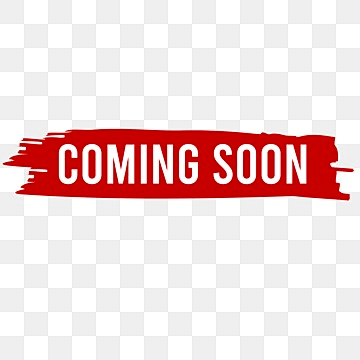
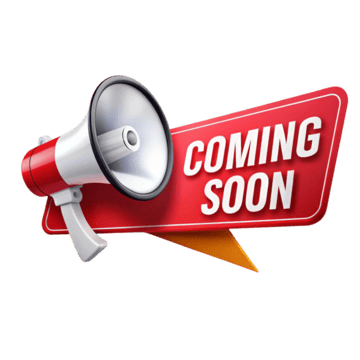
feat(projects): coming-soon badge image, remove empty slide overlay
comingSoon slides now show the coming_soon_icon.png brush-stroke badge
bottom-centered instead of a gradient text pill over a black bar. The
empty Overlay (solid black div with no content) no longer renders for
the comingSoon variant, and its dead $comingSoon prop is removed.
Test queries the badge by alt text.

Generated with [Devin](https://devin.ai)

Changed region(s): [[0.0, 0.1833, 0.9778, 0.7639]]

diff --git a/src/features/portfolio/Projects/CarouselSlide/index.js b/src/features/portfolio/Projects/CarouselSlide/index.js
@@ -41,18 +41,17 @@ const CarouselSlide = ({ project, isActive, position, onClick, onExpand }) => {
         height={PROJECT_IMAGE_HEIGHT}
         loading="lazy"
       />
-      <Overlay
-        $comingSoon={project.variant === "comingSoon"}
-        initial={false}
-        animate={{
-          y: isActive ? 0 : "100%",
-        }}
-        transition={{
-          duration: 0.35,
-          ease: [0.4, 0, 0.2, 1],
-        }}
-      >
-        {project.variant !== "comingSoon" && (
+      {project.variant !== "comingSoon" && (
+        <Overlay
+          initial={false}
+          animate={{
+            y: isActive ? 0 : "100%",
+          }}
+          transition={{
+            duration: 0.35,
+            ease: [0.4, 0, 0.2, 1],
+          }}
+        >
           <BottomBar>
             <BottomRow>
               {project.technologies?.length > 0 && (
@@ -92,10 +91,13 @@ const CarouselSlide = ({ project, isActive, position, onClick, onExpand }) => {
               </CTAContainer>
             </BottomRow>
           </BottomBar>
-        )}
-      </Overlay>
+        </Overlay>
+      )}
       {project.variant === "comingSoon" && (
-        <ComingSoonBadge>Coming Soon</ComingSoonBadge>
+        <ComingSoonBadge
+          src={`${process.env.PUBLIC_URL}/coming_soon_icon.png`}
+          alt="Coming Soon"
+        />
       )}
     </Slide>
   );

diff --git a/src/features/portfolio/Projects/CarouselSlide/styled.js b/src/features/portfolio/Projects/CarouselSlide/styled.js
@@ -69,10 +69,7 @@ export const Overlay = styled(motion.div)`
   right: 0;
   display: flex;
   align-items: flex-end;
-  background: ${({ $comingSoon }) =>
-    $comingSoon
-      ? "var(--color-black)"
-      : "linear-gradient(180deg, transparent 0%, var(--color-surface) 40%)"};
+  background: linear-gradient(180deg, transparent 0%, var(--color-surface) 40%);
 
   @media (max-width: ${({ theme }) => theme.breakpoint.md}) {
     padding: 0 var(--spacing-sm) var(--spacing-sm);
@@ -180,22 +177,12 @@ export const CTAButton = styled(Button)`
   }
 `;
 
-export const ComingSoonBadge = styled.span`
+export const ComingSoonBadge = styled.img`
   position: absolute;
-  top: var(--spacing-md);
-  right: var(--spacing-md);
-  padding: var(--spacing-xs) var(--spacing-sm);
-  font-size: 0.75rem;
-  font-weight: 700;
-  color: var(--color-white);
-  text-transform: uppercase;
-  letter-spacing: 0.05em;
-  background: linear-gradient(
-    135deg,
-    var(--color-primary),
-    var(--color-accent)
-  );
-  border-radius: var(--radius-md);
-  box-shadow: var(--shadow-md);
+  bottom: -34px;
+  left: 50%;
+  transform: translateX(-50%);
+  width: 150px;
   z-index: 3;
+  filter: drop-shadow(0 2px 6px rgb(var(--color-black-rgb) / 0.45));
 `;

diff --git a/src/features/portfolio/Projects/CarouselSlide/CarouselSlide.test.js b/src/features/portfolio/Projects/CarouselSlide/CarouselSlide.test.js
@@ -85,7 +85,7 @@ describe("CarouselSlide", () => {
       />
     );
 
-    expect(screen.getByText("Coming Soon")).toBeInTheDocument();
+    expect(screen.getByAltText("Coming Soon")).toBeInTheDocument();
   });
 
   it("calls onExpand when active slide is clicked", () => {
